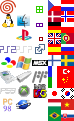
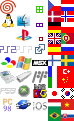
Added Apple iProduct platform

Changed region(s): [[0.4324, 0.843, 0.6486, 0.9174]]

diff --git a/data/style.css b/data/style.css
@@ -1193,6 +1193,7 @@ a .icons { cursor: pointer }
 .icons.msx { background-position: -32px -56px; }
 .icons.nes { background-position: -32px -70px; }
 .icons.dos { background-position: -32px -84px; }
+.icons.ios { background-position: -32px -98px; }
 
 .icons.cs  { background-position: -48px   0px; }
 .icons.da  { background-position: -48px -11px; }
